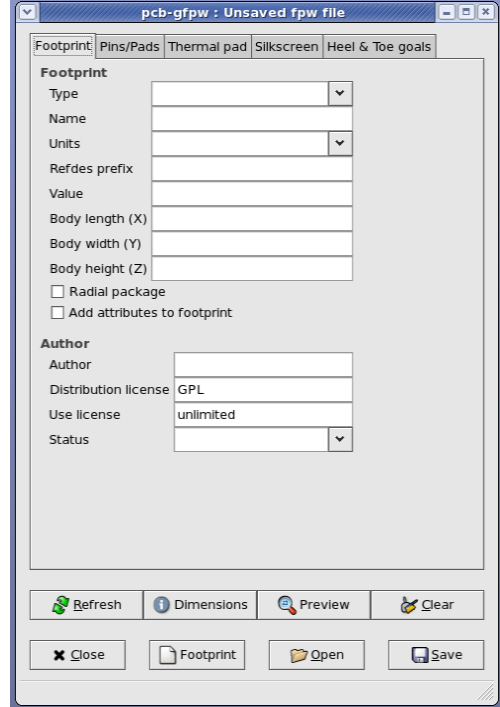
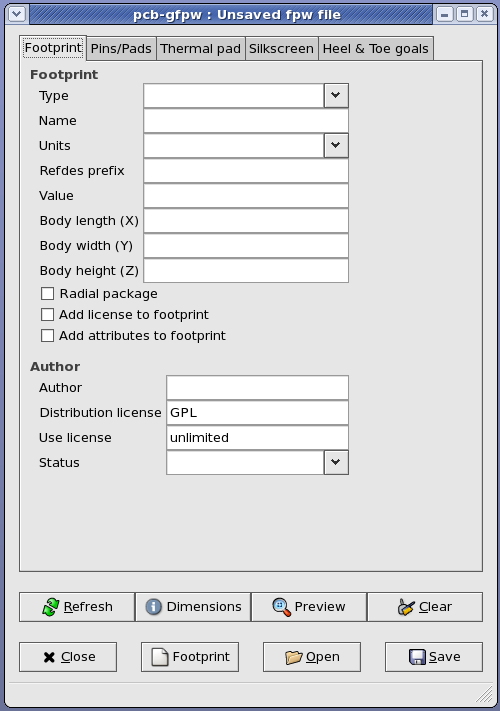
Updated the User manual.

Changed region(s): [[0.0, 0.0, 1.0, 1.0]]

diff --git a/doc/user-manual.html b/doc/user-manual.html
@@ -1,7 +1,7 @@
 <html>
-<title>User Manual for pcb-gfpw (version 0.0.8)</title>
+<title>User Manual for pcb-gfpw (version 0.0.9)</title>
 <body>
-<h1>User Manual for pcb-gfpw (version 0.0.8)</h1>
+<h1>User Manual for pcb-gfpw (version 0.0.9)</h1>
 <hr>
 
 
@@ -9,7 +9,7 @@
 "pcb-fpw" is a FootPrintWizard for <b>"pcb"</b>.<br>
 <br>
 "fpw" (<b>F</b>oot<b>P</b>rint<b>W</b>izard) is a Command Line Interface program 
-for the (automated) creation of footprint files used by the pcb layout application for the 
+for the (automated) creation of footprint files used by the pcb layout editor for the 
 placement of parts in a pcb layout.<br>
 "pcb-gfpw" is a GTK GUI version for the interactive creation of footprint files 
 used by the pcb layout application for the placement of parts in a pcb layout.
@@ -17,12 +17,12 @@ used by the pcb layout application for the placement of parts in a pcb layout.
  
 <h2>What is "pcb" ?</h2>
 "pcb" is an interactive <b>P</b>rinted <b>C</b>ircuit <b>B</b>oard editor for the
-X11 window system (see <a href="http://pcb.sourceforge.net">
-http://pcb.sourceforge.net</a>).<br>
+X11 window system (see <a href="http://pcb.gpleda.org">
+http://pcb.gpleda.org</a>).<br>
 PCB includes a rats nest feature, design rule checking, and can provide
 industry standard RS-274-X (Gerber), NC drill, and centroid data (X-Y data)
 output for use in the board fabrication and assembly process.<br>
-PCB offers high end features such as an autorouter and trace optimizer which
+PCB offers high end features such as an autorouter, topological router and trace optimizer which
 can tremendously reduce layout time.
 <hr>
 
@@ -65,10 +65,12 @@ The <b>"About pcb-gfpw"</b> dialog contains the following buttons:<br>
 <li>The <b>"Credits"</b> button: clicking this button raises a 
 <a href="images/credits_dialog.png">credits popup dialog</a> in which a message 
 about the names of the authors or translators are given (select the tab of your 
-choice).
+choice).<br>
+<br>
 <li>The <b>"License"</b> button: clicking this button raises a 
 <a href="images/license_dialog.png">license popup dialog</a> in which a message 
-about the license is given.
+about the license is given under which pcb-gfpw is distributed.<br>
+<br>
 <li>The <b>"Close"</b> button: clicking this button closes the "About pcb-gfpw"
 dialog.
 </ul>
@@ -179,6 +181,12 @@ not to be checked.<br>
 In all cases defined package types entered in the <b>"Type"</b> entry, pcb-fpw 
 follows the design rules for this package type.<br>
 <br>
+<li>The <b>"Add license to footprint"</b> checkbutton can be used to include
+a license text in the header of the footprint file.<br>
+For now this is a hard coded text resembling the 
+<a href="http://www.gpleda.org/license.html">exception for symbols</a> as with 
+gschem or fonts in general.<br>
+<br>
 <li>The <b>"Add attributes to footprint"</b> checkbutton can be used to include
 all values in the entries, and the state of all check and toggle buttons as 
 attributes in the footprint file.<br>
@@ -258,19 +266,38 @@ It contains pre-defined positions.<br>
 <br> 
 <li>The <b>"Pin/pads exceptions"</b> entry is used for entering the pins or 
 pads that are not present at the package.<br>
-For entering large amount of exceptions on BGA footprints there is a select
-exception dialog available.<br>
+All exceptions are to be specified individually by a row indicator where the 
+indicator is one or more letters of the alphabet ([A .. Y, AA .. YY] etc. 
+excluding "I", "O", "Q", "S" and "Z"), and a column indicator where the 
+indicator is a member of the positive Natural numbers (N), each exception is 
+separated by a comma (",").<br>
+No wildcards ["?","*"] or collections [A1-A5","B2-B6"] allowed, this is left for
+a future enhancement, and kudos if you send in a patch with a (fully tested)
+solution ;-)<br>
+Currently the limit is set to a maximum of 10.000 leads, and 80 rows
+(this limit is hard coded for now).<br>
+<br>
+For entering large amounts of exceptions on BGA or PGA footprints, there is a 
+select exception dialog available.<br>
 This select exception dialog is invoked by clicking the button left of the 
-entry.<br>
+text entry.<br>
 <br>
 <img src="images/select_exception_dialog.png"><br>
-The above example shows that all leads of a 100 pad (10 rows by 10 columns) BGA 
-package (or all pins for a PGA package) are present.<br>
+<br>
+The above example shows that only the outer two rows/columns of leads of a 100 
+pad (10 rows by 10 columns) BGA package (or all pins for a PGA package) are 
+present.<br>
+The 36 exceptions are withdrawn from the total number of pins/pads, and this is 
+reflected in the "total pins and pads" entry after the "refresh" button is 
+clicked.<br>
+<br>
   <ul>
   <li>The <b>"Close"</B> button will ignore all changes and close the 
   dialog.<br>
+  <br>
   <li>The <b>"Clear"</B> button will clear all ticks from check boxes in the 
   dialog (this means: no leads present on this package).<br>
+  <br>
   <li>The <b>"OK"</B> button will accept all changes and close the dialog.<br>
   </ul>
 <br> 
@@ -457,7 +484,7 @@ footprint file,<br>
 footprintwizard file.<br>
 </ul>
 <hr>
-Last update: November 7th, 2008 by Bert Timmerman.
+Updated: June 7th, 2009 by Bert Timmerman.
 <hr>
 </body>
 </html>
